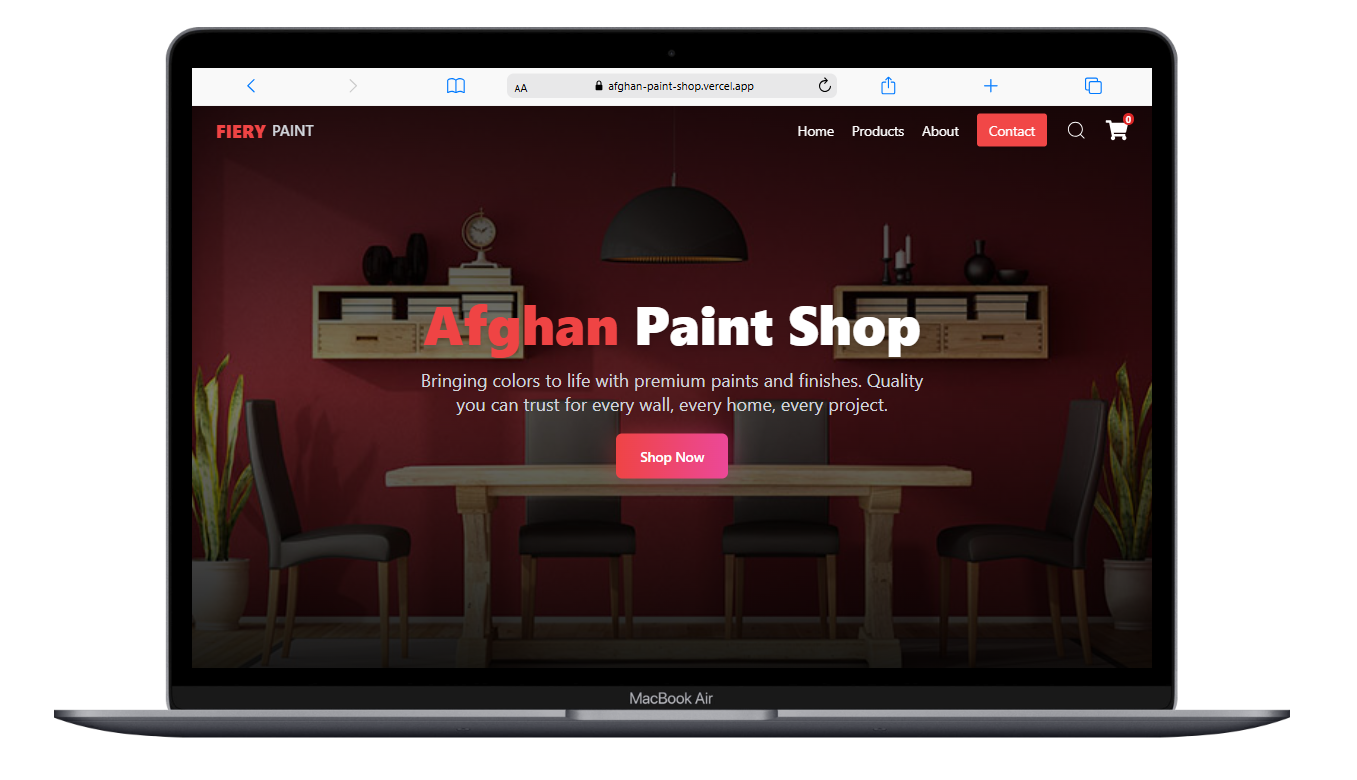
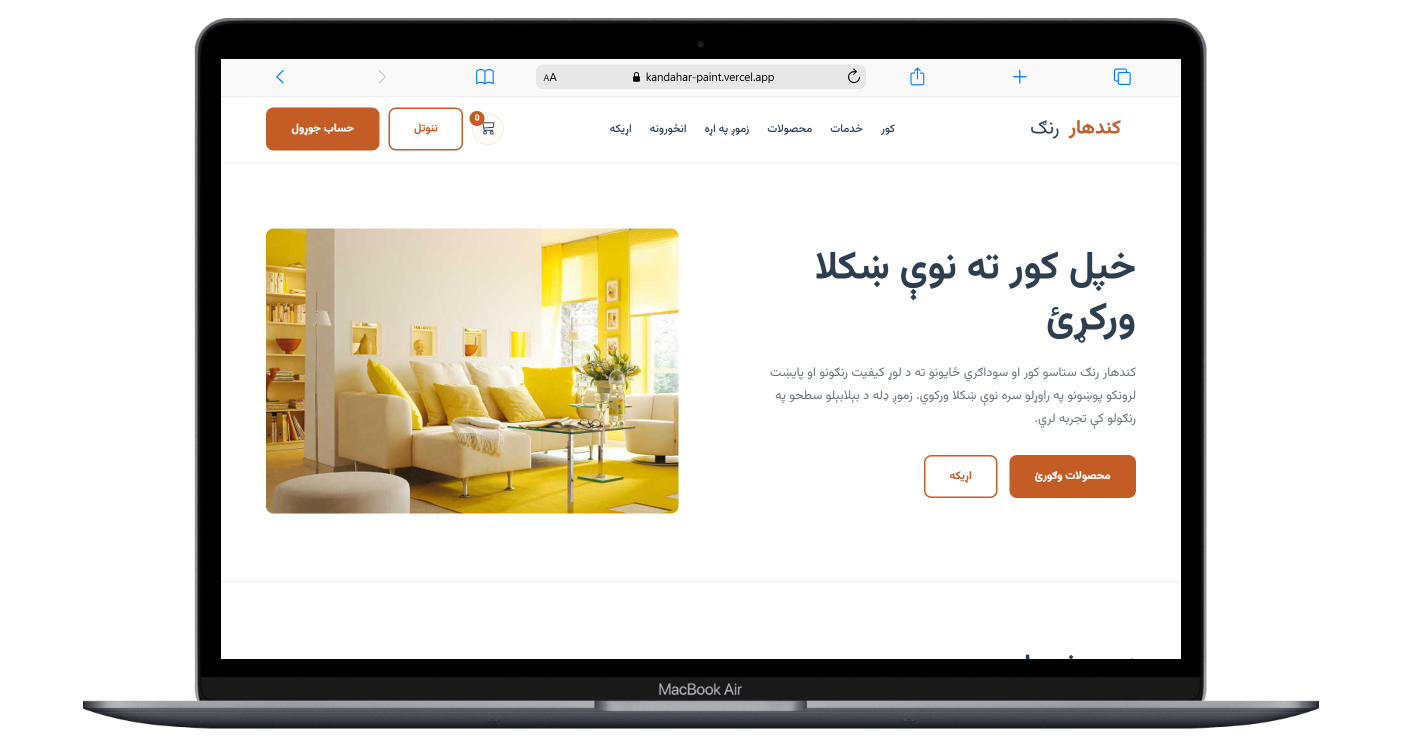
new project added

diff --git a/src/Components/Projects/Projects.jsx b/src/Components/Projects/Projects.jsx
@@ -54,13 +54,13 @@ const projects = [
     tags: ["React", "JavaScript", "Tailwind"],
   },
   {
-    title: "Afghan Paint",
+    title: "Kandahar Paint",
     description:
       "Business-focused UI for paint and inventory-style workflows—adaptable to your domain model.",
-    link: "#",
-    repo: "#",
+    link: "https://kandahar-paint.vercel.app/",
+    repo: "https://github.com/Nasibcs/kandahar_Paint",
     image: paint,
-    tags: ["React", "JavaScript", "Tailwind"],
+    tags: ["HTML", "CSS", "JavaScript"],
   },
 ];
 
